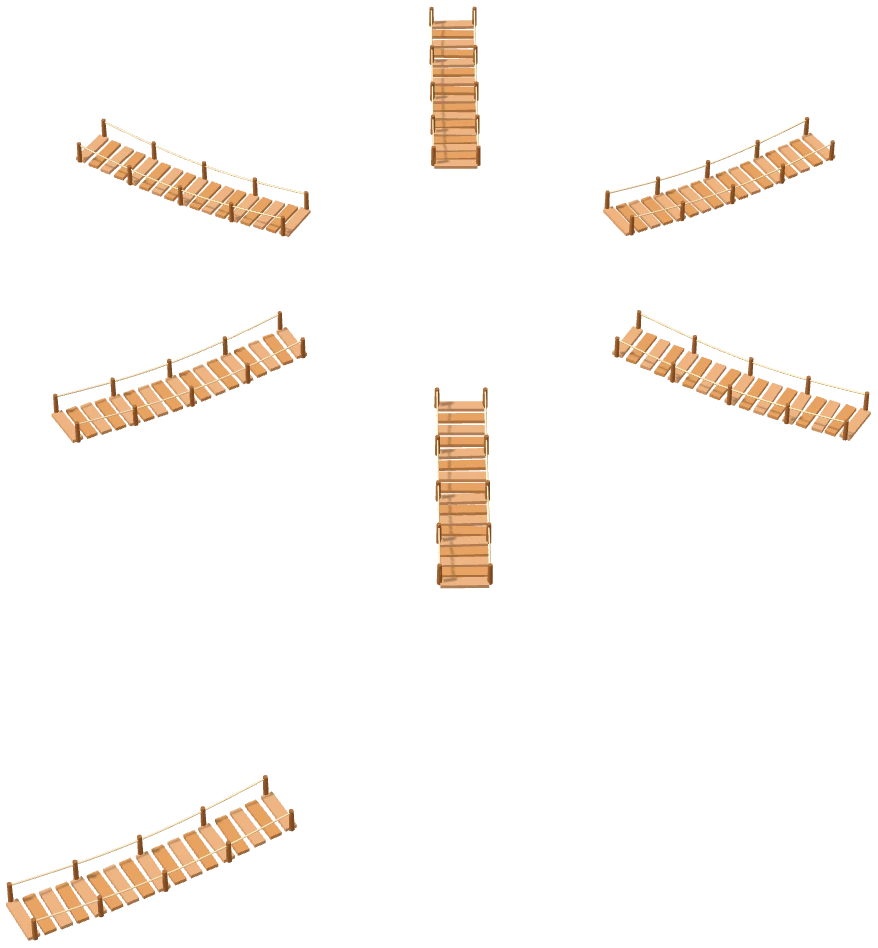
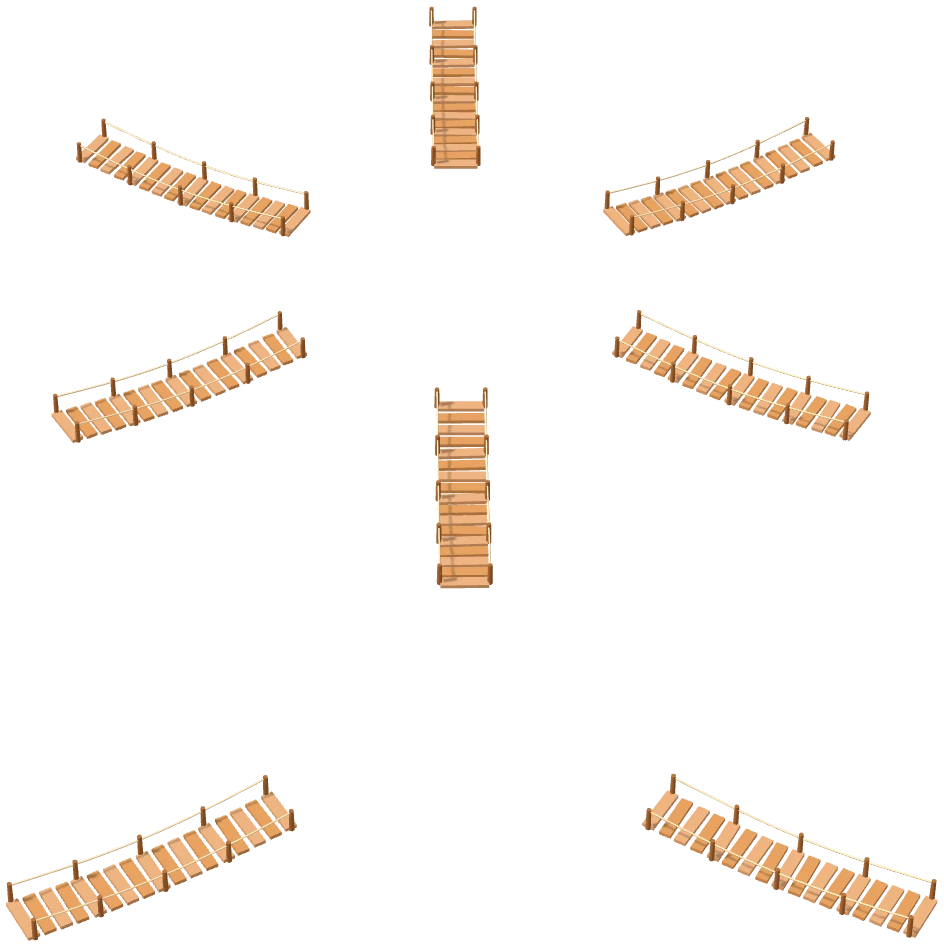
feat(island): 第 8 座「對戰島」放 unit23 打字擂台＋首頁縮放把名牌寬度算進去
- island/data.js：對戰島 at [5,5]、從打字島接吊橋、small、theme duel
- island-3d.html：PROPS.ring 迷你擂台；THEMES.duel 帆布地、紅白藍圍繩塔、獎盃、手套、旗子、鍵帽
- index.html fit()：名牌中心＋半個名牌寬納入範圍（直向手機原本切掉對戰島名牌）
- list.html 新增「雙人對戰」區塊與每分鐘字數徽章；README、SDD §8.1／8.2；報表頁面名稱
- 重跑 render-island（land／port 各 11 層 33 熱區）

diff --git a/island-3d.html b/island-3d.html
@@ -334,6 +334,13 @@ const PROPS = {
   mushroom(g) { [[0,0,1],[.14,.08,.6]].forEach(([x,z,s]) => { mesh(CY(.04*s,.05*s,.18*s,10), 0xfff6e6, g, x,.09*s,z);
     mesh(SP(.13*s,16,10,0,Math.PI*2,0,Math.PI/2), 0xff6f8f, g, x,.17*s,z); for (let i=0;i<5;i++) { const a = i*1.25; mesh(SP(.022*s,6,6), 0xffffff, g, x+Math.cos(a)*.08*s,.25*s,z+Math.sin(a)*.08*s); } }); },
   // 節慶島：小聖誕樹（三層綠錐＋金星＋彩球）
+  ring(g) {   // 迷你擂台：方形台＋四角柱（藍紅對角）＋三層紅白藍圍繩（unit23 打字擂台）
+    mesh(B(.44,.08,.44), 0xfff4d6, g, 0,.04,0); mesh(B(.46,.03,.46), 0x1b1b3a, g, 0,.015,0);
+    const post = [[-.2,-.2,0x2458e6],[.2,.2,0x2458e6],[.2,-.2,0xc92a2a],[-.2,.2,0xc92a2a]];
+    post.forEach(([x,z,c]) => mesh(CY(.018,.018,.26,8), c, g, x,.21,z));
+    [.16,.22,.28].forEach((y,i) => { const c = [0xc92a2a,0xffffff,0x2458e6][i];
+      [[0,-.2,0],[0,.2,0],[-.2,0,1],[.2,0,1]].forEach(([x,z,rot]) => mesh(B(rot ? .007 : .4, .007, rot ? .4 : .007), c, g, x,y,z)); });
+    mesh(SP(.045,12,10), 0x2458e6, g, -.08,.12,.02); mesh(SP(.045,12,10), 0xc92a2a, g, .08,.12,-.02); },
   xtree(g) { [[.2,.26,.16],[.16,.22,.3],[.11,.18,.42]].forEach(([r,h,y]) => mesh(CO(r,h,10), 0x2e9e5b, g, 0,y,0));
     mesh(CY(.04,.05,.08,8), 0x8a5a33, g, 0,.04,0);
     mesh(new THREE.OctahedronGeometry(.055,0), 0xffd45c, g, 0,.54,0, { emissive:0xffb000, emissiveIntensity:.5 });
@@ -417,7 +424,40 @@ function giftPile(p, x, z, s=1) { const t = p.userData.top;
     const h = w*.85; mesh(B(w*s,h*s,w*s), c, p, x+dx*s, t+h*s/2, z+dz*s).rotation.y = dx*3;
     mesh(B(w*s*1.02,h*s*1.02,.02*s), rb, p, x+dx*s, t+h*s/2, z+dz*s).rotation.y = dx*3; }); }
 function bigXtree(p, x, z, s=1) { const g = new THREE.Group(); g.position.set(x, p.userData.top, z); g.scale.setScalar(s); g.rotation.y = rnd()*6.28; p.add(g); PROPS.xtree(g); }
+// 對戰島（theme:'duel'）的小物
+function glove(p, x, z, s=1, c=0xc92a2a) { const t = p.userData.top, g = new THREE.Group(); g.position.set(x, t, z); g.rotation.y = rnd()*6.28; p.add(g);
+  mesh(SP(.12*s,14,10), c, g, 0, .12*s, 0).scale.set(1, .85, 1.15); mesh(SP(.055*s,10,8), c, g, .1*s, .1*s, .05*s);
+  mesh(CY(.075*s,.08*s,.09*s,12), 0xffffff, g, 0, .1*s, -.15*s).rotation.x = Math.PI/2; }
+function trophy(p, x, z, s=1) { const t = p.userData.top, gold = { metalness:.5, roughness:.3, emissive:0xb07800, emissiveIntensity:.25 };
+  mesh(B(.18*s,.06*s,.18*s), 0x5a3a2a, p, x, t+.03*s, z); mesh(CY(.025*s,.04*s,.14*s,10), 0xffc93c, p, x, t+.13*s, z, gold);
+  mesh(CY(.11*s,.05*s,.16*s,14), 0xffc93c, p, x, t+.28*s, z, gold);
+  [-1,1].forEach(k => mesh(new THREE.TorusGeometry(.05*s,.012*s,6,12), 0xffc93c, p, x+.12*s*k, t+.29*s, z, gold)); }
+function pennant(p, x, z, s=1, c=0x2458e6) { const t = p.userData.top;
+  mesh(CY(.012*s,.012*s,.55*s,6), C.woodDark, p, x, t+.27*s, z);
+  const f = mesh(CO(.09*s,.22*s,3), c, p, x+.11*s, t+.47*s, z); f.rotation.z = -Math.PI/2; f.scale.z = .25; }
+function keyBlock(p, x, z, s=1) { const t = p.userData.top; const cs = [0xffc93c,0x2458e6,0xc92a2a,0xffffff];
+  for (let i=0;i<3;i++) mesh(B(.12*s,.08*s,.12*s), cs[(i + (rnd()*4|0)) % 4], p, x + (i-1)*.14*s, t+.04*s, z + (i%2)*.05*s); }
+
 const THEMES = {
+  duel: {
+    ground: 0xfff1cf,                 // 擂台帆布色
+    tower(ct, top) {                  // 塔身三圈紅白藍圍繩＋頂端金色獎盃＋兩面旗
+      [0xc92a2a,0xffffff,0x2458e6].forEach((c,y) => mesh(new THREE.TorusGeometry(.36,.04,6,24), c, ct, 0, top+.55+y*.32, 0).rotation.x = Math.PI/2);
+      const g = new THREE.Group(); g.position.set(0, top+2.32, 0); ct.add(g);
+      mesh(CY(.14,.06,.2,14), 0xffc93c, g, 0, .1, 0, { metalness:.5, roughness:.3, emissive:0xb07800, emissiveIntensity:.35 });
+      [-1,1].forEach(k => mesh(new THREE.TorusGeometry(.06,.014,6,12), 0xffc93c, g, .15*k, .12, 0, { metalness:.5, roughness:.3 }));
+      pennant(ct, .62, .3, 1.1, 0x2458e6); pennant(ct, -.62, .3, 1.1, 0xc92a2a);
+    },
+    fill(t, k) {                      // 空地塊：輪流放手套、獎盃、旗子、鍵帽方塊
+      [ () => { glove(t, -.2, 0, 1.5, 0x2458e6); glove(t, .25, .2, 1.5, 0xc92a2a); pennant(t, .35, -.35, 1.2, 0xffc93c); },
+        () => { trophy(t, 0, -.05, 1.8); keyBlock(t, -.1, .45, 1.2); },
+        () => { pennant(t, -.35, -.2, 1.3, 0x2458e6); pennant(t, .3, -.3, 1.3, 0xc92a2a); glove(t, 0, .35, 1.3, 0xc92a2a); },
+        () => { keyBlock(t, 0, -.15, 1.6); glove(t, .35, .35, 1.1, 0x2458e6); },
+        () => { trophy(t, -.25, 0, 1.3); trophy(t, .3, .25, .9); },
+        () => { glove(t, -.3, -.2, 1.4, 0xc92a2a); keyBlock(t, .25, .3, 1.1); } ][k % 6]();
+    },
+    dress(t) { glove(t, -.5, .35, .9, 0x2458e6); pennant(t, .55, -.35, .8, 0xc92a2a); },   // 關卡地塊旁的點綴
+  },
   xmas: {
     ground: 0xf1f6fb,                 // 雪地
     tower(ct, top) {                  // 拐杖糖紅白環＋頂端金星＋一圈發光燈泡

diff --git a/list.html b/list.html
@@ -441,6 +441,22 @@
         </div>
     </section>
 
+    <!-- ===== 雙人對戰：兩台電腦連線（unit23 起），之後的對戰遊戲放這裡 ===== -->
+    <section class="grade-section" style="background: #fff4d6;">
+        <h2 style="color: #1b1b3a;">⚔ 雙人對戰</h2>
+        <p class="grade-hint" style="color: #1b1b3a;">兩個人各用一台電腦，輸入房號就能連線對打；沒有對手也可以先對電腦練習。</p>
+        <div class="card-grid">
+            <a href="./units/unit23-typing-duel/index.html" class="card" style="--c: #2458e6;">
+                <span class="skill-tag">連線對戰</span>
+                <div class="card-cover">⚔⌨</div>
+                <h3 class="card-title">打字擂台</h3>
+                <p class="card-desc">英打或注音中打，打對一個字就打對手一拳！文章來自各科學過的主題（附注音），結算看自己進步多少。</p>
+                <p class="card-score" id="unit23-score-badge" style="display:none;"></p>
+                <span class="play-btn">▶ 開始玩</span>
+            </a>
+        </div>
+    </section>
+
     <!-- ===== 大富翁（board/）：不是 units/ 底下的單元，徽章邏輯也獨立 ===== -->
     <section class="grade-section" style="background: #f5f3ff;">
         <h2 style="color: #5b21b6;">🎲 資訊大富翁</h2>
@@ -492,6 +508,17 @@
         const badge = document.getElementById('unit22-score-badge');
         if (stars && badge) {
             badge.textContent = `⭐ 主線最佳：${stars} / 12 顆星`;
+            badge.style.display = 'inline-block';
+        }
+    })();
+
+    // unit23 存的是歷史最快「每分鐘字數」，不是分數，另外顯示
+    (function loadDuelBadge() {
+        let cpm = null;
+        try { cpm = localStorage.getItem('edtech-unit23-score'); } catch (e) { /* 讀不到就不顯示 */ }
+        const badge = document.getElementById('unit23-score-badge');
+        if (cpm && Number(cpm) > 0 && badge) {
+            badge.textContent = `🏆 最快：每分鐘 ${cpm} 字`;
             badge.style.display = 'inline-block';
         }
     })();

diff --git a/index.html b/index.html
@@ -223,10 +223,12 @@ let box;
 const MAX_S = 1.15;   // 最大放大到原圖 1.15 倍，再大就糊了
 function fit() {
   const xs = [], ys = [];
-  for (const s of M.spots) { for (const p of s.poly) { xs.push(p[0]); ys.push(p[1]); } if (s.label) ys.push(s.label[1] - 60); }
+  // 名牌不跟著地圖縮放（固定約 110px 寬），所以名牌中心也算進範圍，左右再多留半個名牌寬（LW）
+  // 2026-11-19 加第 8 座對戰島（右前方）時，直向手機的名牌被切掉才補上
+  for (const s of M.spots) { for (const p of s.poly) { xs.push(p[0]); ys.push(p[1]); } if (s.label) { xs.push(s.label[0]); ys.push(s.label[1] - 60); } }
   box = { x0:Math.min(...xs), x1:Math.max(...xs), y0:Math.min(...ys), y1:Math.max(...ys) };
-  const top = innerWidth > 640 ? 90 : 70, bottom = 96, side = innerWidth > 640 ? 40 : 14;
-  s0 = Math.min((innerWidth - side * 2) / (box.x1 - box.x0), (innerHeight - top - bottom) / (box.y1 - box.y0));
+  const top = innerWidth > 640 ? 90 : 70, bottom = 96, side = innerWidth > 640 ? 40 : 14, LW = 58;
+  s0 = Math.min((innerWidth - side * 2 - LW * 2) / (box.x1 - box.x0), (innerHeight - top - bottom) / (box.y1 - box.y0));
   box.cy = top + (innerHeight - top - bottom) / 2;
 }
 const homeCam = () => ({ s:s0, x:innerWidth / 2 - (box.x0 + box.x1) / 2 * s0, y:box.cy - (box.y0 + box.y1) / 2 * s0 });

diff --git a/island/data.js b/island/data.js
@@ -48,6 +48,12 @@ export const ISLANDS = [
   //   theme:'xmas'：雪地、拐杖糖塔、燈泡、聖誕樹／雪人／禮物堆（換節慶時改這裡，island-3d.html 的 THEMES 加對應裝飾）
   { id:'fest', name:'節慶島', icon:'🎄', color:0xe0524a, at:[-5,10], from:'type', small:true, theme:'xmas', units:[
     ['聖誕工坊','🎄','xtree','units/unit22-xmas-workshop/','聖誕工坊大救援',GM,22] ] },
+  // 第 8 座（2026-11-19）：雙人連線對戰。打字島已滿 8 關，另開一座放對戰類（之後班級競賽也放這裡）
+  //   at [5,5]：打字島與滑鼠島之間的右前方，離兩島各 5 格、離中心 15（跟節慶島對稱）；吊橋從打字島接過來
+  //   theme:'duel'：帆布地面、紅藍圍繩塔、獎盃、拳擊手套、旗子（island-3d.html 的 THEMES.duel）
+  //   unit23 的分數是歷史最快「每分鐘字數」，地圖上顯示成 🏆 數字
+  { id:'duel', name:'對戰島', icon:'⚔', color:0x5b7cff, at:[5,5], from:'type', small:true, theme:'duel', units:[
+    ['打字擂台','🏆','ring','units/unit23-typing-duel/','打字擂台：雙人連線對戰',GA,23] ] },
 ];
 
 // ---------- 成績（只讀 localStorage，讀不到就當沒玩過） ----------

diff --git a/analytics-worker/src/report.html b/analytics-worker/src/report.html
@@ -198,7 +198,9 @@
     'unit22-xmas-workshop/catch.html': '聖誕工坊：接禮物',
     'unit22-xmas-workshop/memory.html': '聖誕工坊：翻牌配對',
     'unit22-xmas-workshop/tree.html': '聖誕工坊：裝飾聖誕樹',
-    'unit22-xmas-workshop/snowman.html': '聖誕工坊：堆雪人'
+    'unit22-xmas-workshop/snowman.html': '聖誕工坊：堆雪人',
+    'unit23-typing-duel': '打字擂台',
+    'unit23-typing-duel/index.html': '打字擂台'
   };
   var PAGES = {
     '': '首頁（學習樂園島）', 'index.html': '首頁（學習樂園島）',

diff --git a/README.md b/README.md
@@ -12,7 +12,9 @@
 
 ## 🛠 技術棧
 
-* **架構：** 純靜態網站（HTML + CSS + Vanilla JS），無後端、無資料庫
+* **架構：** 純靜態網站（HTML + CSS + Vanilla JS），沒有資料庫。另有兩支 Cloudflare Worker 輔助，都不存學生個資：
+  * `analytics-worker/`：造訪統計（來源學校、不重複裝置）
+  * `duel-worker/`：打字擂台（unit23）兩台電腦連線對戰；一個房號一個 Durable Object，不留對戰紀錄。連不上時遊戲仍可對電腦練習
 * **首頁：** 「學習樂園島」插畫版——用 three.js r160（CDN）把 3D 玩具模型**預先算成分層 WebP**，網頁只疊圖＋HTML 熱區，舊電腦也順
 * **產圖：** `python tools/render-island.py`（需 Python Playwright），改了關卡或場景後重跑
 * **資料儲存：** 瀏覽器 `localStorage`（學生成績本機保存）
@@ -48,6 +50,7 @@
 | 🎒 一年級 | `unit20-sock-matching` | 瘋狂襪子配對線 | 連線配對、觀察規律、運算思維邏輯 |
 | 🎒 一年級 | `unit21-mouse-challenge` | 滑鼠小勇士大冒險 | 滑鼠綜合技巧：點擊／拖曳／按住／雙擊 |
 | 📘 中年級 | `unit22-xmas-workshop` | 聖誕工坊大救援 | 聖誕節慶：主線四關（分類、程式序列、網路安全、打字＋快問快答）＋畫畫屋與 4 個小遊戲，全站唯一附注音字型 |
+| ⚔ 跨年級 | `unit23-typing-duel` | 打字擂台 | 兩台電腦 1 對 1 連線打字對戰（英打／注音中打）、國小 9 領域 57 篇原創選文（注音字型＋破音字）、分層提示、結算看進步 |
 | 🎲 跨年級 | `board/` | 資訊大富翁：森林大冒險 | 資安 / 護眼 / 密碼 / 個資 / 硬體常識；過關發證書可列印 |
 | 🎲 跨年級 | `board/ocean.html` | 資訊大富翁：海洋大探索 | 檔案管理：存放位置 / 資料夾 / 資源回收桶 / 檔名 / 備份 |
 
@@ -126,10 +129,14 @@ edtech-portfolio/
     │   └── index.html
     ├── unit21-mouse-challenge/
     │   └── index.html
-    └── unit22-xmas-workshop/       # 多頁單元：index.html 是工坊地圖
-        ├── index.html / rescue.html（主線四關）
-        ├── draw.html / catch.html / memory.html / tree.html / snowman.html
-        └── fonts/bpmf-huninn-xmas.woff2（注音粉圓子集，SIL OFL 1.1）
+    ├── unit22-xmas-workshop/       # 多頁單元：index.html 是工坊地圖
+    │   ├── index.html / rescue.html（主線四關）
+    │   ├── draw.html / catch.html / memory.html / tree.html / snowman.html
+    │   └── fonts/bpmf-huninn-xmas.woff2（注音粉圓子集，SIL OFL 1.1）
+    └── unit23-typing-duel/         # 打字擂台：index.html 只做畫面（Gemini 產），邏輯在下面幾支
+        ├── duel-rules.js（規則，與 duel-worker 共用）/ duel-core.js / duel-net.js
+        ├── passages-src.json → passages.js（tools/build-passages.py 產生）
+        └── fonts/bpmf-huninn-duel.woff2
 ```
 
 完整規範請見 [`SDD.md`](./SDD.md)。

diff --git a/SDD.md b/SDD.md
@@ -4,7 +4,7 @@
 
 * **專案名稱：** 資訊教育互動教材地圖 (EdTech Interactive Learning Dashboard)
 * **設計目標：** 整合國小不同教學單元、多元互動機制的遊戲化教材，透過統一的 RWD 介面與系統化架構，提供學生「一站式闖關體驗」，並作為教師的專業 EdTech 作品集。
-* **技術定位：** **純靜態網站**，無後端、無資料庫。每個單元為自包含的單一 HTML（CSS/JS 內嵌或同目錄），主要由 **Gemini Canvas** 迭代產出，搭配 GitHub Pages 一鍵部署。
+* **技術定位：** **純靜態網站**，無資料庫（兩支輔助用的 Cloudflare Worker 見 §8.1）。每個單元為自包含的單一 HTML（CSS/JS 內嵌或同目錄），主要由 **Gemini Canvas** 迭代產出，搭配 GitHub Pages 一鍵部署。
 * **AI 協作模式：** Gemini Canvas 負責互動原型與視覺，Claude Code 負責跨檔案結構維護、SDD 更新與部署設定。
 
 ---
@@ -202,3 +202,22 @@ CSS、JS、圖片、`<iframe>` 連結同此規則。
 * **使用者帳號 / 跨裝置同步** → 同上，需另起架構。
 
 保持本專案「Gemini Canvas 單檔互動 + GitHub Pages 一鍵部署」的輕量定位。
+
+### 8.1 例外：放在本 repo 的兩支 Cloudflare Worker
+
+以下兩支跟網站緊密綁在一起、不存個資，所以留在本 repo（各自 `npx wrangler deploy`，不走 GitHub Pages）：
+
+| 資料夾 | 用途 | 存什麼 |
+|---|---|---|
+| `analytics-worker/` | 造訪統計（`/c` 收、`/stats`、`/report` 看） | D1：日期、頁面、來源單位、隨機裝置編號 |
+| `duel-worker/` | 打字擂台（unit23）連線對戰 | Durable Object：房間暫存（暱稱、設定），閒置 30 分鐘清空，不留對戰紀錄 |
+
+界線：網站在 Worker 掛掉時仍要能用（統計漏記、擂台改對電腦練習），不可以讓 Worker 變成單元的必要條件。
+帳號、成績上雲、跨裝置同步仍照上面的原則另起專案。
+
+### 8.2 unit23 打字擂台的分層（新單元要連線時照這個做）
+
+* Gemini 只產畫面 `index.html`；規則 `duel-rules.js`、核心 `duel-core.js`、連線 `duel-net.js` 由 Claude 維護，重產畫面不會動到邏輯
+* 規則同一份給瀏覽器（對電腦練習）與 Worker（連線對戰）用，分數只在伺服器算
+* 介面與訊息格式：`docs/specs/unit23-duel-protocol.md`；測試：`node tools/test-duel-core.js`、`duel-worker` 的 `node test/e2e.mjs`
+* 分數 key：`edtech-unit23-score` 存歷史最快每分鐘字數（首頁徽章另外顯示，不走 1–21 的迴圈）
